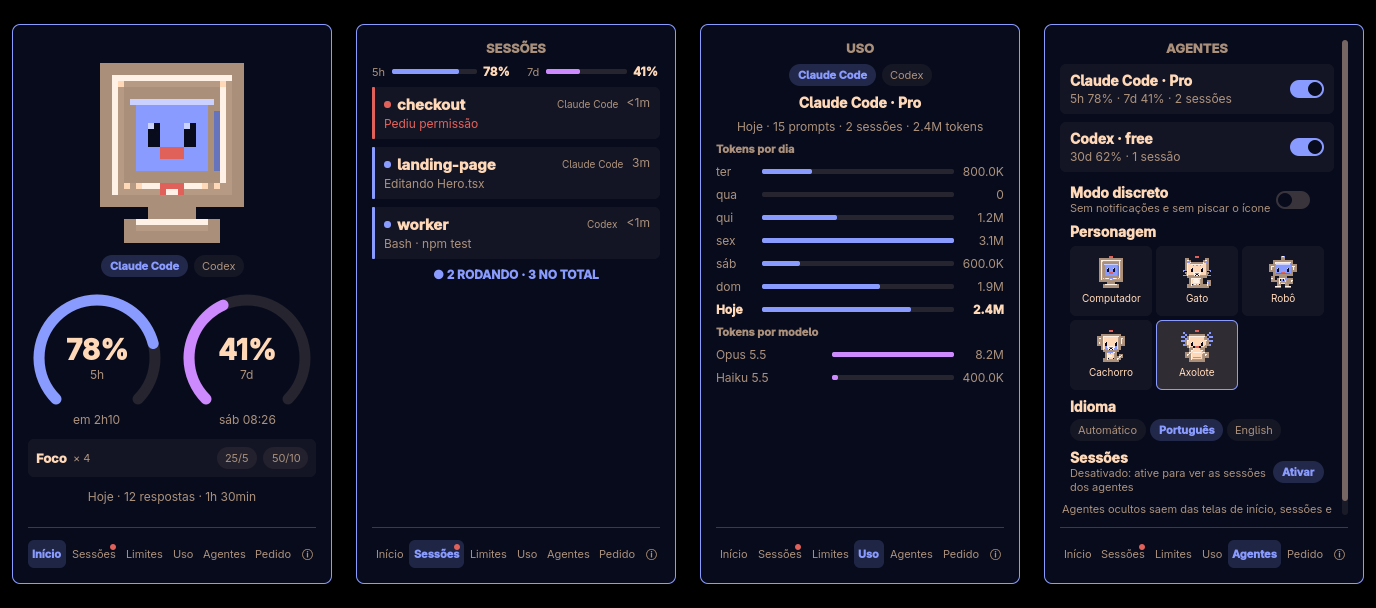
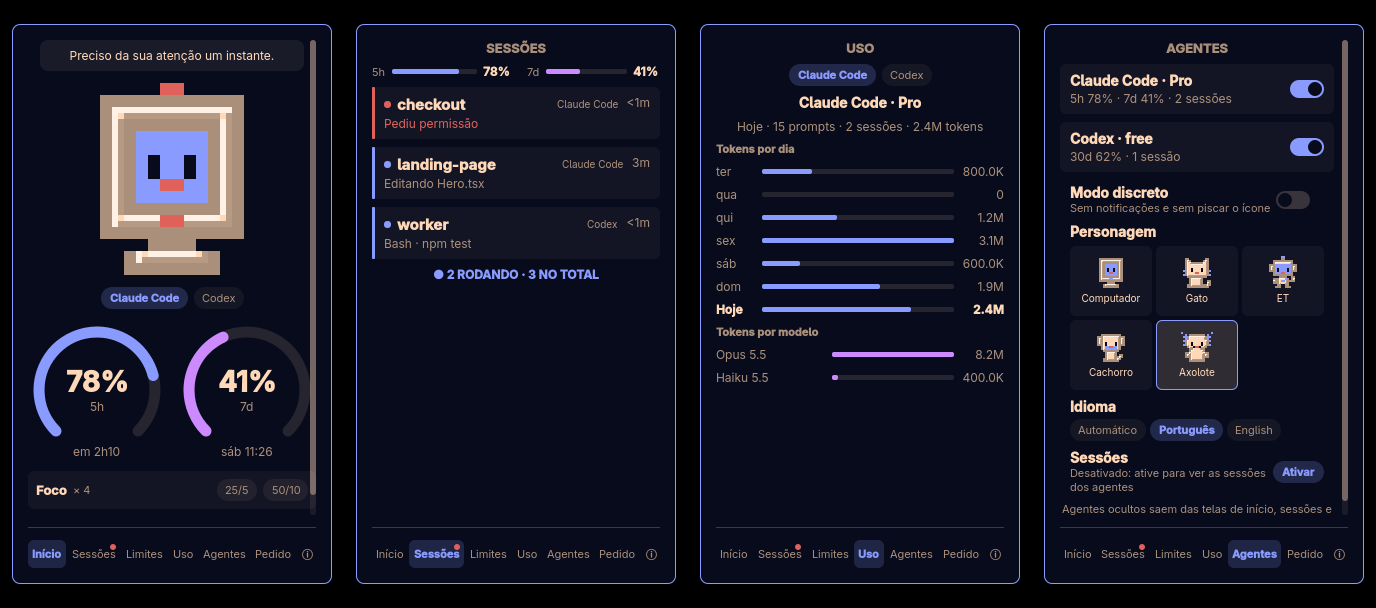
fix(testes): renderize personagens e recados no harness do painel
Desde os personagens em JSON o render.qml saía sem pet e sem seletor;
preview.png refeita com o recado e o nome ET.

diff --git a/testes/painel/render.qml b/testes/painel/render.qml
@@ -2,6 +2,7 @@
 // Uso: QT_QPA_PLATFORM=offscreen qml6 -I testes/painel/imports testes/painel/render.qml -- <pasta-de-saída>
 import QtQuick
 import QtQuick.Window
+import Quickshell
 Window {
   id: w
   width: 400; height: 700; visible: true; color: "#000"
@@ -18,6 +19,13 @@ Window {
     if (!item) return null
     if (item.objectName === "card") return item
     for (var i = 0; i < item.children.length; i++) { var f = findCard(item.children[i]); if (f) return f }
+    return null
+  }
+  function findNamed(item, name) {
+    if (!item) return null
+    if (item.objectName === name) return item
+    var list = item.data || item.children || []
+    for (var i = 0; i < list.length; i++) { var f = findNamed(list[i], name); if (f) return f }
     return null
   }
   Timer {
@@ -44,6 +52,12 @@ Window {
         p.manifest = ({ name: "Retro Agent Pet", version: "0.3.0", author: "Marlon Azevedo", license: "MIT", homepage: "https://github.com/MarlonAzevedo/omarchy-retro-agent-pet" })
         p.daily = ({ completed_responses: 12, active_seconds: 5400 })
         p.hooksState = "missing"
+        // Personagens e recados vêm dos JSON reais; o Process de teste não roda o find
+        Quickshell.readFiles = true
+        var scan = w.findNamed(p, "characterScan")
+        scan.stdout.text = ["computer", "cat", "robot", "dog", "axolotl"].map(function(id) {
+          return p.builtinCharactersDir + "/" + id + ".json" }).join("\n") + "\n"
+        scan.stdout.streamFinished()
         return
       }
       // Passos ímpares trocam a tela; pares capturam (o grab desenha no quadro seguinte)
@@ -57,6 +71,12 @@ Window {
         p.screen = parts[0]
         p.config = ({ hidden_agents: ["fireworks"], language: english ? "en" : "pt", character: character })
         p.selectedAgent = parts[1] || ""
+        // Leitura real do dia falha fora do shell e zeraria o resumo; o stub síncrono apaga o recado ao trocar o personagem
+        p.daily = ({ completed_responses: 12, active_seconds: 5400 })
+        var recados = new XMLHttpRequest()
+        recados.open("GET", "file://" + p.builtinCharactersDir + "/" + character + "/recados." + (english ? "en" : "pt") + ".txt", false)
+        recados.send()
+        p.builtinRecadoText = recados.responseText
         if (parts[1] === "many") p.sessions = Array.from({ length: 30 }, function(_, i) {
           return { session_id: "session-" + i, cwd: "/project/session-" + i, status: "idle", updated_at: now - i }
         })
